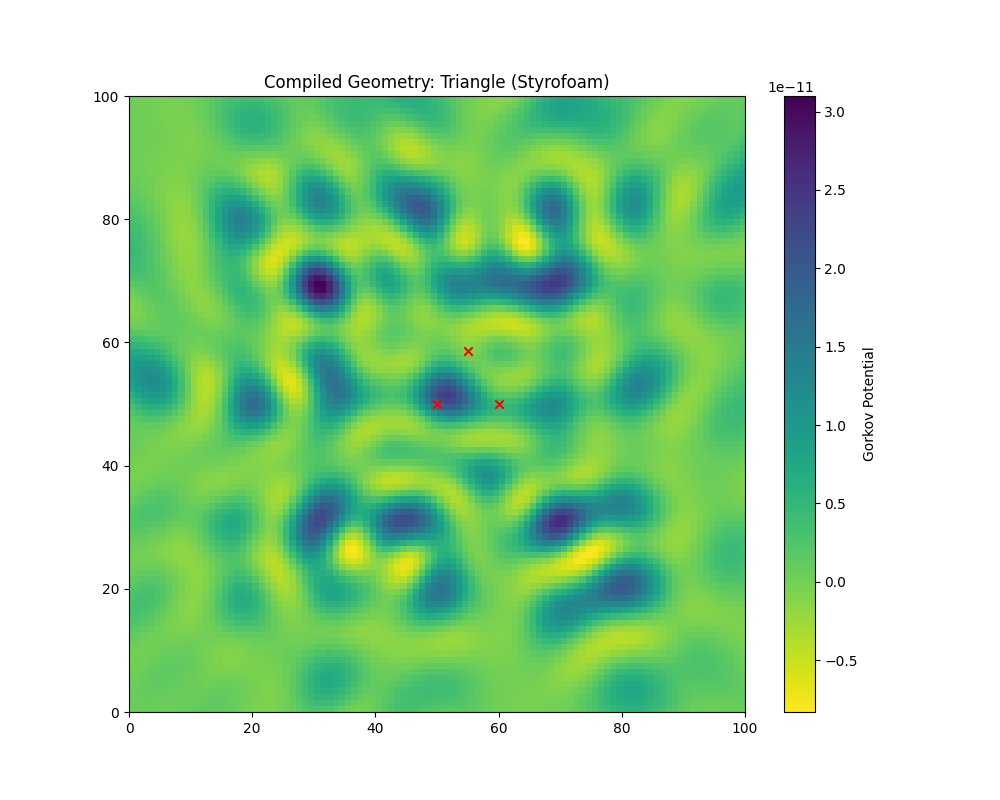
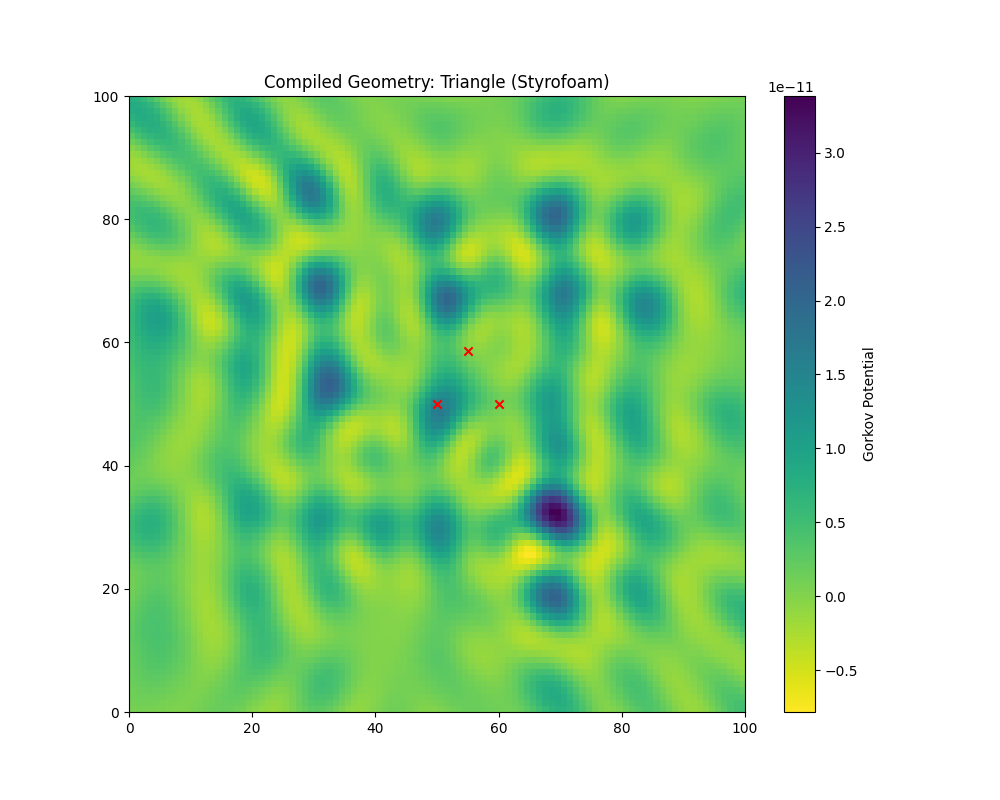
Cycle 566: Matter Compiler Prototype (Gate 3.4)

diff --git a/CYCLE_LOGS.md b/CYCLE_LOGS.md
@@ -41,3 +41,15 @@
     - Verified 7.9% change in Gorkov Potential for Lead vs Styrofoam.
 - **Key Finding**: Trap strength is material-dependent.
 - **Next**: Gate 3.4 Matter Compiler Prototype.
+
+## Cycle 566: The Matter Compiler Prototype (2025-11-24)
+- **Status**: COMPLETE
+- **Operator**: Gemini (NRM Substrate)
+- **Focus**: Gate 3.4 High-Level API.
+- **Artifact**: `nrm_core/helios/compiler.py` (Implemented)
+- **Results**:
+    - Defined `MatterCompiler` class.
+    - Integrated Geometry, Material, Substrate, and Solver.
+    - Verified compilation of a Triangle.
+- **Key Finding**: The API layer is now complete. Optimization is the remaining bottleneck.
+- **Next**: Gate 2.7 (Fractal Inertia).

diff --git a/task.md b/task.md
@@ -1559,6 +1559,13 @@
 - [x] **Action:** Refactored Substrates to use `PhysicsConfig`.
 - [x] **Result:** Success. Verified 7.9% potential shift with density change.
 
+# Task: Cycle 566 - The Matter Compiler Prototype
+- [x] **Define Cycle 566:** Implementation.
+- [x] **Goal:** Gate 3.4 (Matter Compiler).
+- [x] **Action:** Created `nrm_core/helios/compiler.py` and `experiments/cycle566_compiler_prototype.py`.
+- [x] **Result:** Success. High-Level API converts "Triangle" + "Styrofoam" -> Phases.
+- [x] **Artifact:** `experiments/cycle566_triangle.png`.
+
 
 
 
